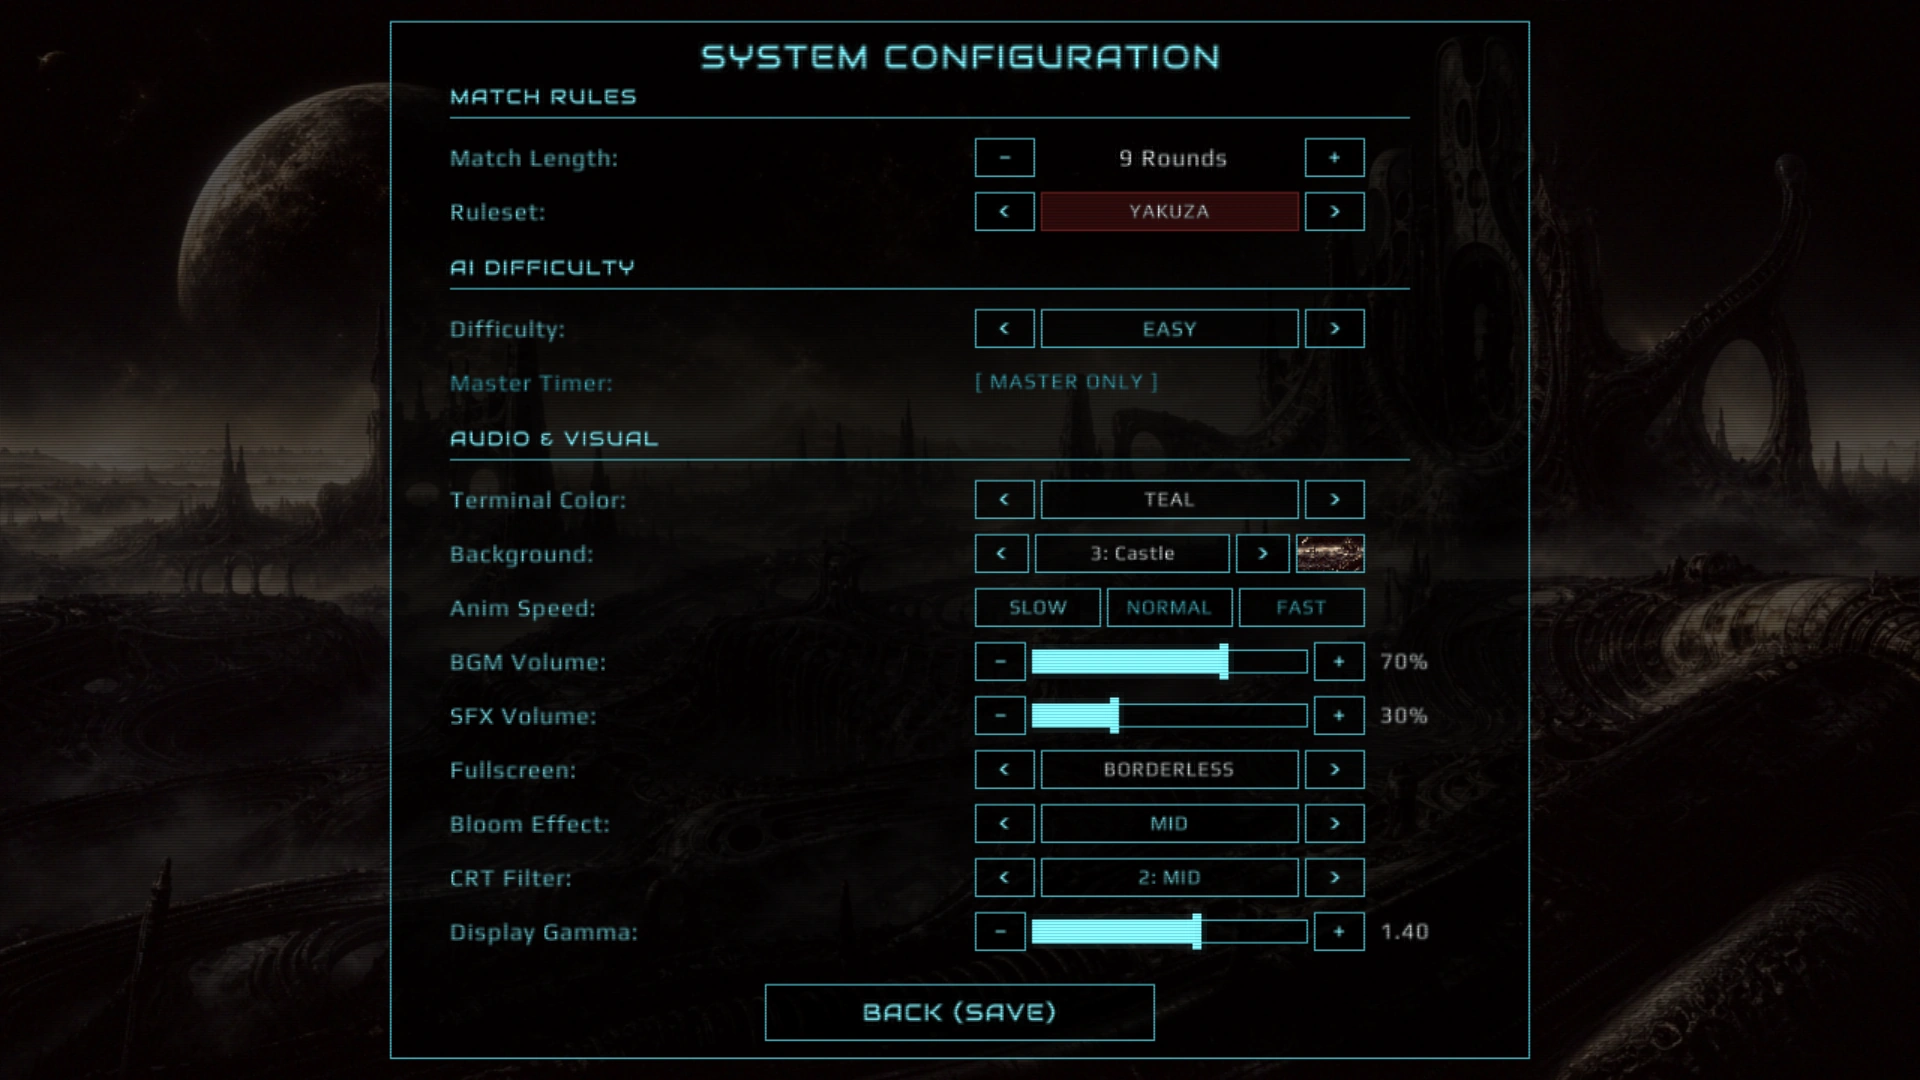
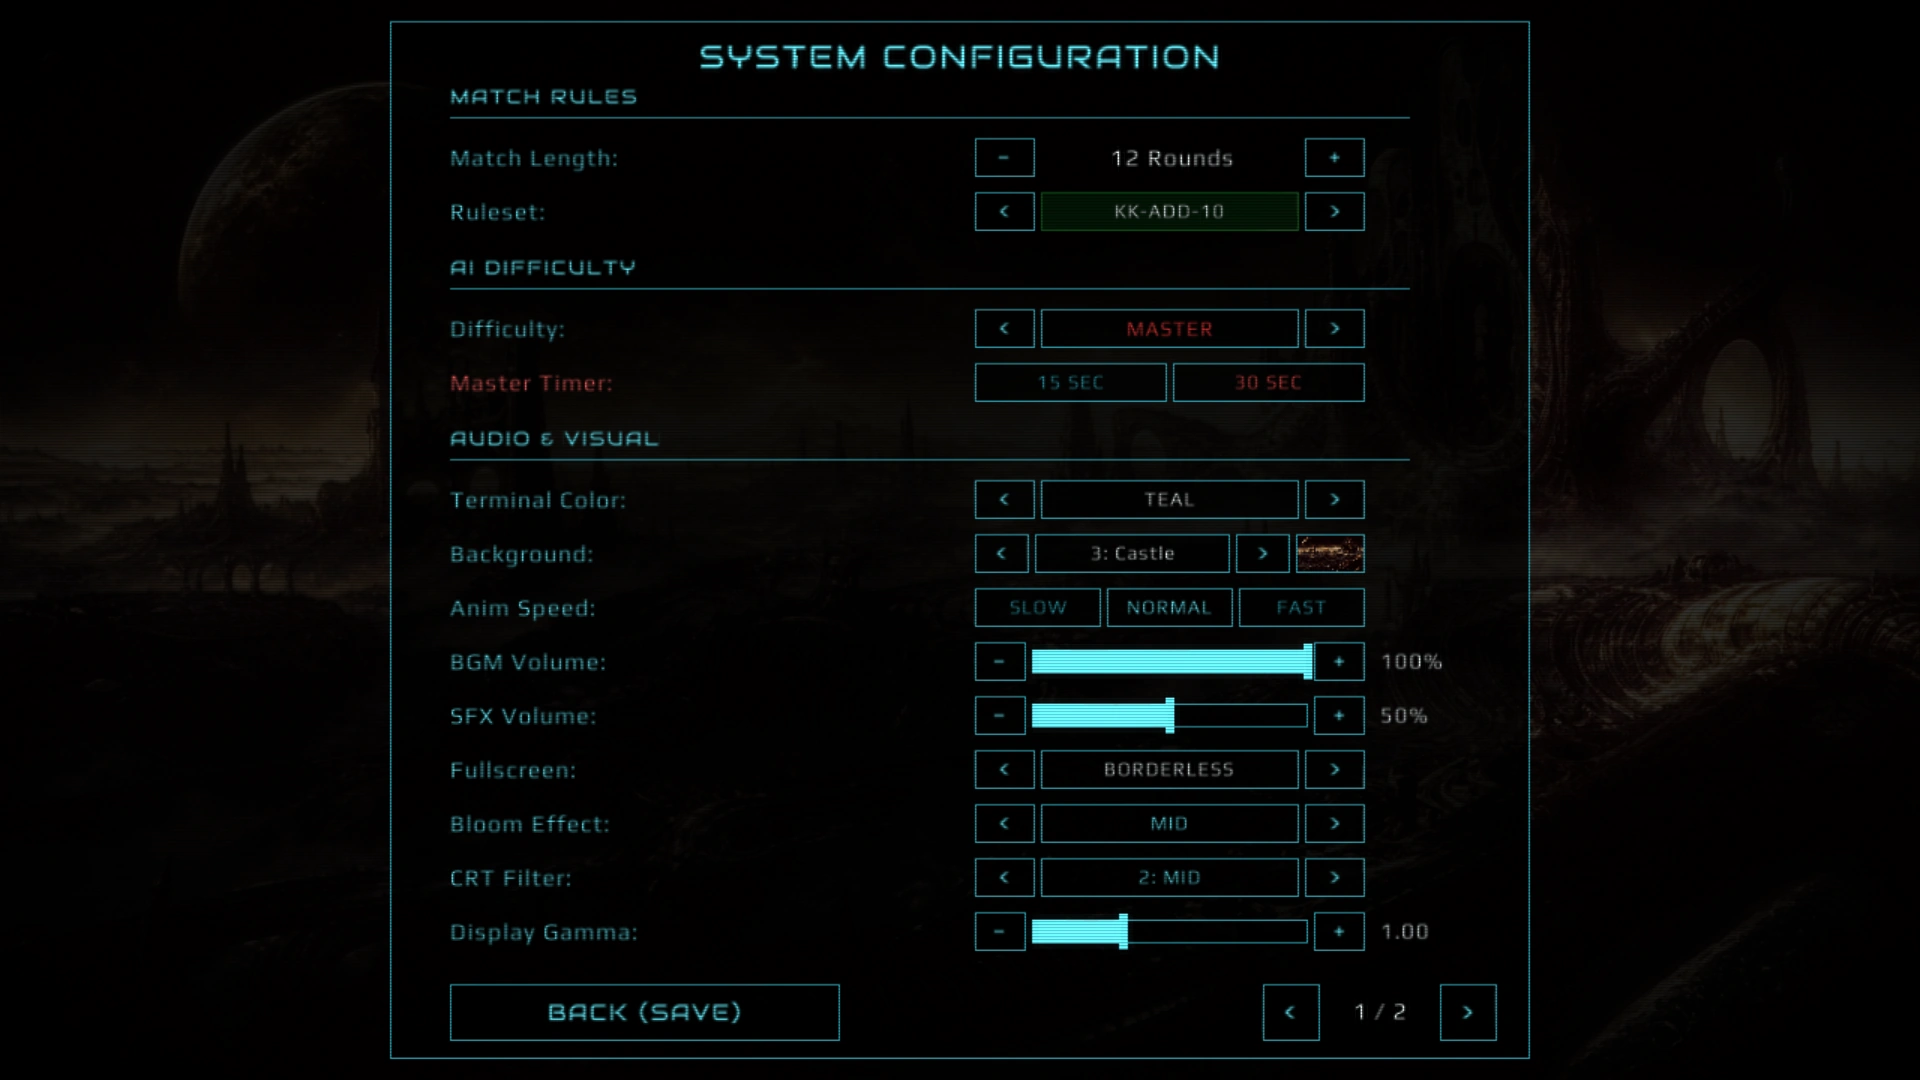
docs: add current options and gameplay captures

diff --git a/tools/make_screenshots.py b/tools/make_screenshots.py
@@ -5,7 +5,7 @@ cropped out of them.
 
 Everything else under docs/assets/ is drawn from source. These are not: a picture of the shipped
 board is the one thing no tool here can produce, because this repo has no GPU and no headless
-browser. So the six frames are captured by hand and committed as they came in, and this tool does
+browser. So the frames are captured by hand and committed as they came in, and this tool does
 the two parts that can be generated:
 
   1. import  --from <dir> re-encodes a capture to WebP at its captured size. Run once per frame.
@@ -28,7 +28,7 @@ The captured frames are already dimmed and scanlined by assets/postprocess.fs, s
 lossier encode lands on top of noise the game put there on purpose.
 
 Usage:
-  python3 tools/make_screenshots.py --from ~/shots   # import the six captures
+  python3 tools/make_screenshots.py --from ~/shots   # import the captures it finds
   python3 tools/make_screenshots.py                  # re-crop from what is committed
   python3 tools/make_screenshots.py --check          # exit 1 if any image is missing
 
@@ -59,6 +59,10 @@ PAD = 4
 FRAMES = [
     ("board-mid-round", "board mid round.png",
      "four turns into a round: half the field gone, both capture columns filling"),
+    ("ingame", "ingame.png",
+     "the opening of a KK-ADD-10 round, with one player card raised for selection"),
+    ("ingame2", "ingame2.png",
+     "a KK-ADD-10 round in progress, with populated capture lanes and particles"),
     ("card-tooltip", "card tool tip.png",
      "a field card held under the cursor, with its tooltip beside it"),
     ("koi-prompt", "koi koi prompt.png",
@@ -66,7 +70,10 @@ FRAMES = [
     ("deus-taunt", "deus taunt.png",
      "the mono deck, the round-start banner and DEUS's transmission panel"),
     ("match-result", "match result.png", "the match-over screen with its round ledger"),
-    ("options", "option.png", "the whole options screen, every setting at its default"),
+    ("options", "menu1.png",
+     "Options page 1: match, difficulty, visual and volume controls, with gamma at 1.00"),
+    ("options-audio", "menu2.png",
+     "Options page 2: custom music, Action audio sliders and the TEST EFFECT control"),
     ("campaign", "camp.png", "the sector grid with one opponent's dossier open"),
     ("stats", "stats.png", "the stats screen, the last ten matches and the replay controls"),
 ]

diff --git a/STATUS.md b/STATUS.md
@@ -7,12 +7,20 @@
 ## Status Summary
 ## Latest completed work
 
+### Current Options and README gameplay captures — completed locally 22 Oct 2026
+
+- Imported the four supplied 1920 x 1080 captures through `tools/make_screenshots.py --from`: `menu1.png` replaces the old Options frame, `menu2.png` adds the current page 2, and `ingame.png` / `ingame2.png` add the two README gameplay views. The importer only flattened/encoded them to q95 WebP; no capture was cropped, repainted, or recoloured.
+- The Options wiki now displays both current pages. Captions explicitly call out the pictured saved examples rather than presenting them as defaults: page 1 shows Display Gamma 1.00, and page 2 shows the custom-music controls with Chorus 60%, Bass +20 dB, Space reverb 70%.
+- README screenshots now use the repository-local `docs/assets/screenshots/ingame.webp` and `ingame2.webp` instead of external GitHub `user-attachments` URLs. The screenshot inventory and contributor instructions now cover all 11 frames and seven derived close-ups.
+
+Checks on this section: `make_screenshots.py --check` (11 frames), the card/table generated-file checks, `mkdocs build --strict`, local Chromium decoding of both 1920 x 1080 Options images and their captions, README local-image checks, and `git diff --check` pass. No engine or audio code changed, so the previously recorded full-suite result is unchanged.
+
 ### Wiki freshness and browser-settings audit — completed locally 22 Oct 2026
 
 - Regenerated the wiki card back, all 48 stale DEUS thumbnails, the DEUS background/atlas, and the dependent difficulty-chart SVG from the shipped source art. No pixel art was hand-edited. The new back is the matte-black texture with the vertical cyan XENO/KOI logo.
 - `tools/make_card_images.py` now writes `tools/card_images.sha256`; `--check` rejects missing files, edited outputs, and source/generator drift. Docs CI installs Pillow and runs this check. A deliberate stale-output test was rejected as intended.
 - Audited the commits since the previous wiki refresh. Existing coverage was confirmed for custom music, Options page 2, effect audition, chorus/reverb, thunder/ash, and the speed minigame. Added or corrected discoverability and accuracy notes: +20 dB bass (including the current 96 kHz +0.054 dB failure), ash and thunder feedback, the speed round-streak reset, and cross-links for minipoints/serie conversion.
-- Fresh settings still default to **Display Gamma 1.00**. `tests/test_music_folder.c` now proves that default and separately proves a saved gamma of 1.35 survives a load. The browser still restores `xenokoi_settings.txt`; no saved-setting reset or migration was added. The old Options screenshot showed 1.40 and a pre-pagination panel, so its wiki reference was removed rather than presenting it as current. A fresh in-game replacement is still outstanding.
+- Fresh settings still default to **Display Gamma 1.00**. `tests/test_music_folder.c` now proves that default and separately proves a saved gamma of 1.35 survives a load. The browser still restores `xenokoi_settings.txt`; no saved-setting reset or migration was added. The old Options screenshot showed 1.40 and a pre-pagination panel, so its wiki reference was removed rather than presenting it as current; the current replacement is recorded in the capture update above.
 - **WASM runtime check not completed:** Emscripten is absent locally, and latest main Docs & Web Build run 39723749408 fails before the WASM build. Latest successful main deployment found was run 39625965216 at 1bb9228. The surviving last-deployed artifact also could not be downloaded here because GitHub redirects to a storage host outside the sandbox allowlist. Static source checks and the real-browser wiki render do not substitute for a WASM boot; a fresh-browser-profile check remains required after CI deploys again.
 
 Checks on this section: `gen_wiki_tables.py --check`, `make_card_images.py --check`, all other documentation art checks, `mkdocs build --strict`, local Chromium rendering of seven wiki pages (including every local image), `RAYLIB_SRC=/tmp/raylib/src ./tests/test_music_folder.sh`, `./tests/test_table_ui.sh`, and `git diff --check` pass. Full `RAYLIB_SRC=/tmp/raylib/src ./build.sh test` remains red with exit 134 at the already-recorded 96 kHz bass high-band assertion: measured +0.054 dB versus the unchanged <0.05 dB bound; the 500-match integrity suite and 44.1/48 kHz audio checks pass first.

diff --git a/docs/reference/modes.md b/docs/reference/modes.md
@@ -41,6 +41,10 @@ settings when you press BACK (SAVE). See [Errata & Known Issues](../errata.md) f
 
 On desktop, these settings are saved in `settings.txt` next to the game. The browser build stores the same settings in browser local storage as `xenokoi_settings.txt`; they stay in that browser profile, not in an account or cloud save.
 
+<div class="figure-zoom" id="options-page-1"><div class="figure-zoom-scroll"><img src="../../assets/screenshots/options.webp" width="1920" height="1080" loading="lazy" alt="Current Options page 1: 12 Rounds, KK-ADD-10, MASTER with 15 SEC selected, TEAL, 3: Castle, SLOW animation, BGM 100%, SFX 50%, BORDERLESS, Bloom MID, CRT 2: MID, Display Gamma 1.00, and page 1 / 2."></div><a class="figure-zoom-btn" href="#options-page-1">zoom the screen</a><a class="figure-zoom-btn" href="#">close</a></div>
+
+*Options page 1 in the current UI. The 12-round Master match is this player's saved example, not the fresh-install configuration; **Display Gamma reads 1.00**. The table below separates these captured choices from the defaults.*
+
 The left column is the label the screen shows. The right column is what `storage_load_settings()` in `src/storage.c` returns when no saved settings exist:
 
 | Setting | Options | Fresh install / browser profile |
@@ -79,6 +83,10 @@ This option is **desktop-only**. Browser builds cannot read a local folder path 
 ### Action card audio effects
 
 On **Options page 2**, beneath **Audio effect options**, the three sliders change the **music effect triggered by taking/capturing cards or calling Koi-Koi**. They do not apply continuously or replace card SFX. The existing action envelope builds and fades; sliders set its maximum strength.
+
+<div class="figure-zoom" id="options-page-2"><div class="figure-zoom-scroll"><img src="../../assets/screenshots/options-audio.webp" width="1920" height="1080" loading="lazy" alt="Current Options page 2: CUSTOM FOLDER for music, Chorus 60%, Bass boost +20.0 dB, Space reverb 70%, TEST EFFECT: OFF, and page 2 / 2."></div><a class="figure-zoom-btn" href="#options-page-2">zoom the screen</a><a class="figure-zoom-btn" href="#">close</a></div>
+
+*Options page 2 in the current UI. Chorus 60%, Bass +20 dB, and Space reverb 70% are this player's example settings, not the fresh defaults of Off, +0 dB, and 50%.*
 
 - **Chorus:** replaces the discontinued stereo widener. Adds two pitch-modulated short-delay voices over the direct music. Raising the control increases their level and modulation depth. The two channels use identical modulation and fixed gains: this is a layered chorus, **not an auto-panner**. Chorus deliberately modulates pitch/phase; set Chorus to zero if you do not want that movement.
 - **Bass boost:** maximum is a **+20 dB low shelf with stereo-linked compression of only the added bass** (up to 4:1); the midpoint requests +10 dB. The original music is not ducked by the bass compressor. The displayed dB value is the low-frequency pre-compression ceiling at full action strength; loud material receives less additional gain to prevent clipping. See the [current 96 kHz regression note](audio-dsp.md#checks-run-22-october-2026) before treating that endpoint as verified on every output device.

diff --git a/AGENTS.md b/AGENTS.md
@@ -55,7 +55,7 @@ CI runs the same checks (`.github/workflows/docs.yml`) and fails if the generate
 - Card images in the wiki (`docs/assets/cards/card-<id>.webp` + `back.webp`, the DEUS variants, and the DEUS background/atlas) are cut from the shipped art by `tools/make_card_images.py` — never edit the art or the thumbnails by hand. Regenerate after any source-art or generator change: `python3 tools/make_card_images.py` (needs Pillow: `pip install --break-system-packages pillow`). This also writes `tools/card_images.sha256`; check source/output freshness with `python3 tools/make_card_images.py --check`. Afterwards rerun `python3 tools/gen_wiki_tables.py`, because the difficulty chart embeds card thumbnails.
 - `README.md`'s masthead band and link buttons are generated from the shipped art by `tools/make_readme_art.py`, and the to-scale table map `docs/assets/readme/table-map.png` with `tools/make_board_figure.py` (both write into that folder; both take `--check`) -- never edit `docs/assets/readme/*` by hand. Regenerate with `python3 tools/make_readme_art.py`, check with `--check`.
 - The flow diagrams in `docs/assets/figures/` (`turn-flow.png` on How to Play, `award-pipeline.png` on Multipliers & Awards) are drawn by `tools/make_flow_figures.py` from the stage order in `src/engine.c` and the gates in `calculate_award()` -- never edit the PNGs, and never put numbers in them, because totals belong in the generated tables. Regenerate with `python3 tools/make_flow_figures.py`, check with `--check`.
-- The six game screenshots in `docs/assets/screenshots/` are hand-captured (the only images here no tool can make) and imported with `python3 tools/make_screenshots.py --from <dir>`; their four close-ups are cropped from them at the rectangles in `src/`, so never trim a PNG by hand. Re-derive with `python3 tools/make_screenshots.py`, check with `--check`.
+- The game screenshots in `docs/assets/screenshots/` are hand-captured (the only images here no tool can make) and imported with `python3 tools/make_screenshots.py --from <dir>`; their seven close-ups are cropped from them at the rectangles in `src/`, so never trim a PNG by hand. Re-derive with `python3 tools/make_screenshots.py`, check with `--check`.
 - Desktop builds: see `build.sh`. The `linux`, `win`, and `wasm` modes expect raylib in `/tmp`.
 - `./build.sh test` runs `tests/test_engine.c` (500 simulated matches plus deck and scoring checks). `./tests/test_table_ui.sh` runs headless table input and combo-panel checks; it needs Raylib headers at `RAYLIB_SRC` (default `/tmp/raylib/src`), but not the Raylib library.
 - Do not commit build output: `koikoi_linux`, `test_engine`, `dist/`, `site/`, or compiled tool binaries. Build tools to `/tmp`.

diff --git a/README.md b/README.md
@@ -19,9 +19,9 @@ Everything above is explained with real card pictures in the rulebook: **[How to
 
 ## Screenshots
 
-<img width="1920" height="1080" src="https://github.com/user-attachments/assets/c48a1bdd-9f0c-4530-ba30-5332710876fd" alt="A match in progress: the player's hand along the bottom, the field in the middle, the stock to the left, and both capture lanes down the left edge, all inside a teal CRT frame." width="1920" />
+<img width="1920" height="1080" src="docs/assets/screenshots/ingame.webp" alt="The opening of a KK-ADD-10 round: eight cards in each hand, eight on the field, 24 in the stock, and one player card raised for selection inside the teal CRT interface." />
 
-<img width="1920" height="1080" src="https://github.com/user-attachments/assets/bb6ee598-940e-46f9-ab39-6cf9941d9260" alt="The same table with a card mid-drag, its matching month glowing on the field." width="1920" />
+<img width="1920" height="1080" src="docs/assets/screenshots/ingame2.webp" alt="A KK-ADD-10 round in progress: both players have cards in their capture lanes, the player's remaining hand sits along the bottom, and capture particles drift above the field." />
 
 ## Where to read what
 

diff --git a/docs/about-the-docs.md b/docs/about-the-docs.md
@@ -97,10 +97,10 @@ to the column and blows it up on click.
 
 ## Screenshots
 
-Eight pictures of the running game sit in `docs/assets/screenshots/`: the board in play, a
-tooltip, the Koi-Koi screen, a transmission from DEUS, the match result, the options screen, the
-campaign grid and the stats screen. They and the one reference scan beside them are the **only
-images on this site that no tool can produce** - this repository has no GPU and no headless browser,
+Eleven pictures of the running game sit in `docs/assets/screenshots/`: the two README gameplay
+views, the older board in play, a tooltip, the Koi-Koi screen, a transmission from DEUS, the match
+result, both Options pages, the campaign grid and the stats screen. They and the one reference scan
+beside them are the **only images on this site that no tool can produce** - this repository has no GPU and no headless browser,
 so nothing here can render the game. A frame is captured by hand and imported once:
 
 ```bash
